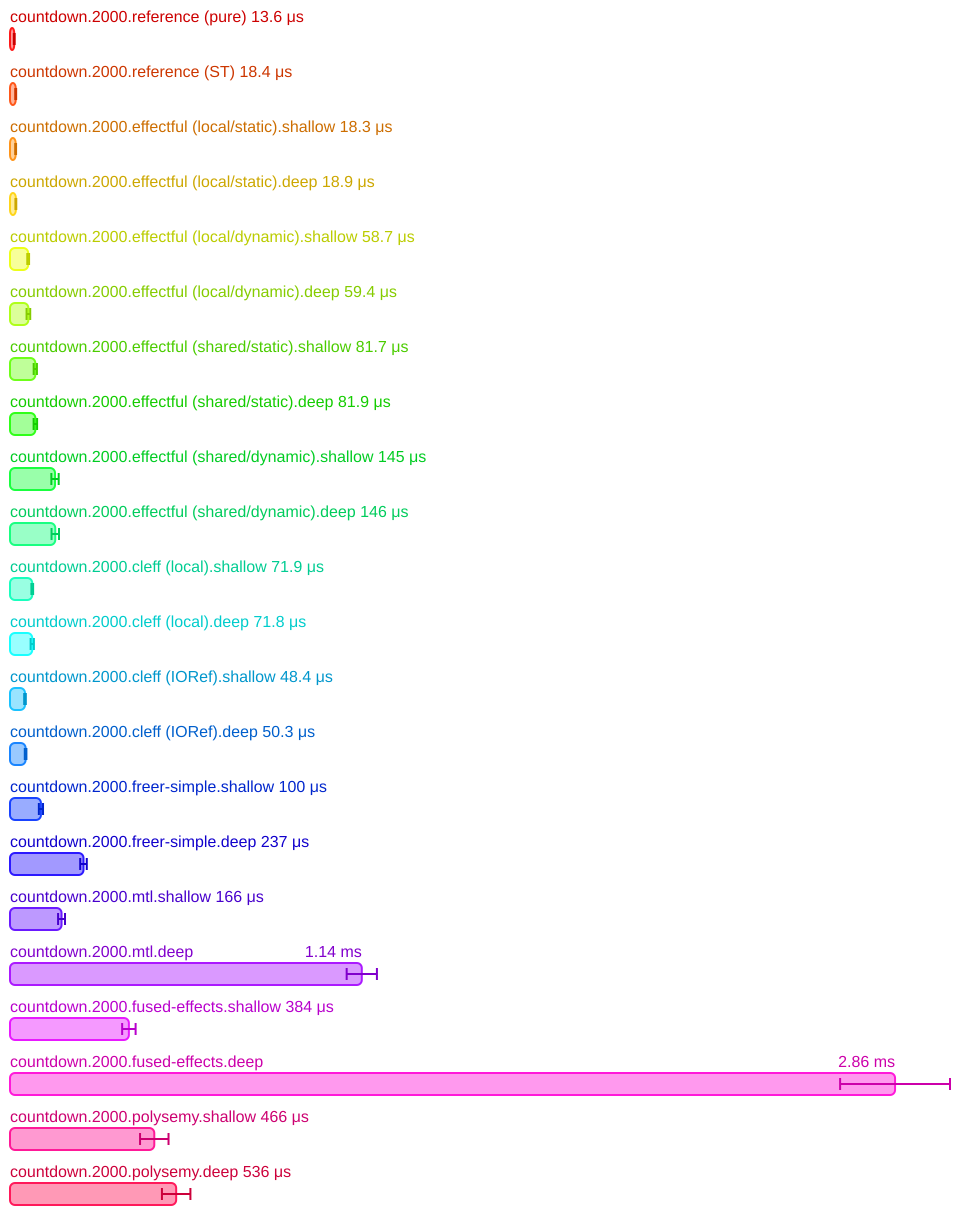
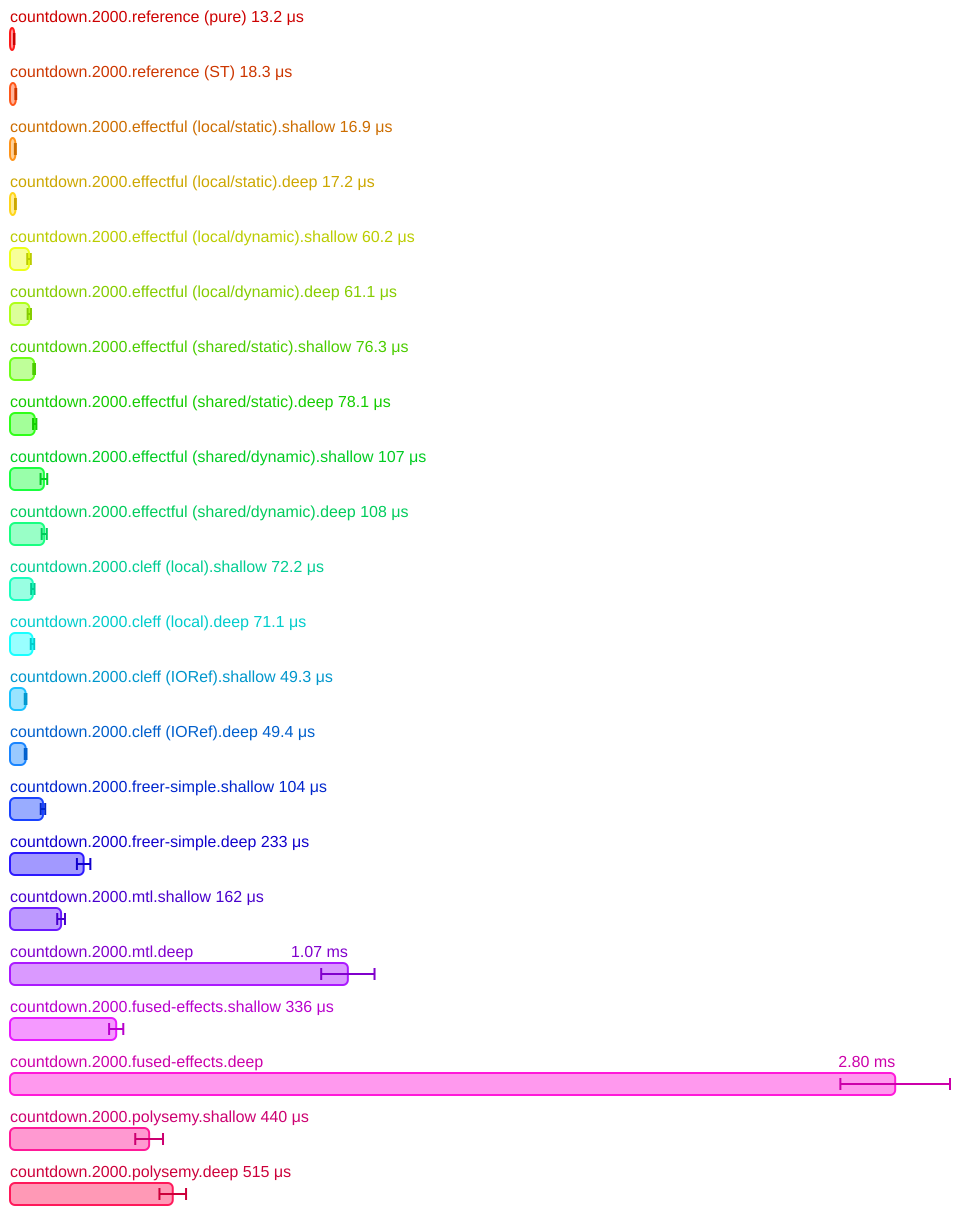
Update benchmark results

diff --git a/benchmarks/README.md b/benchmarks/README.md
@@ -29,7 +29,7 @@ as that would essentially mean performing whole program specialization.
 
 ## Results
 
-The code was compiled with GHC 9.2.3 and run on a Ryzen 9 5950x.
+The code was compiled with GHC 9.2.4 and run on a Ryzen 9 5950x.
 
 *Note:* below results are from a 1000 iteration run. Runs with more iterations
 are not included in the analysis since they are proportionally the same, but can
